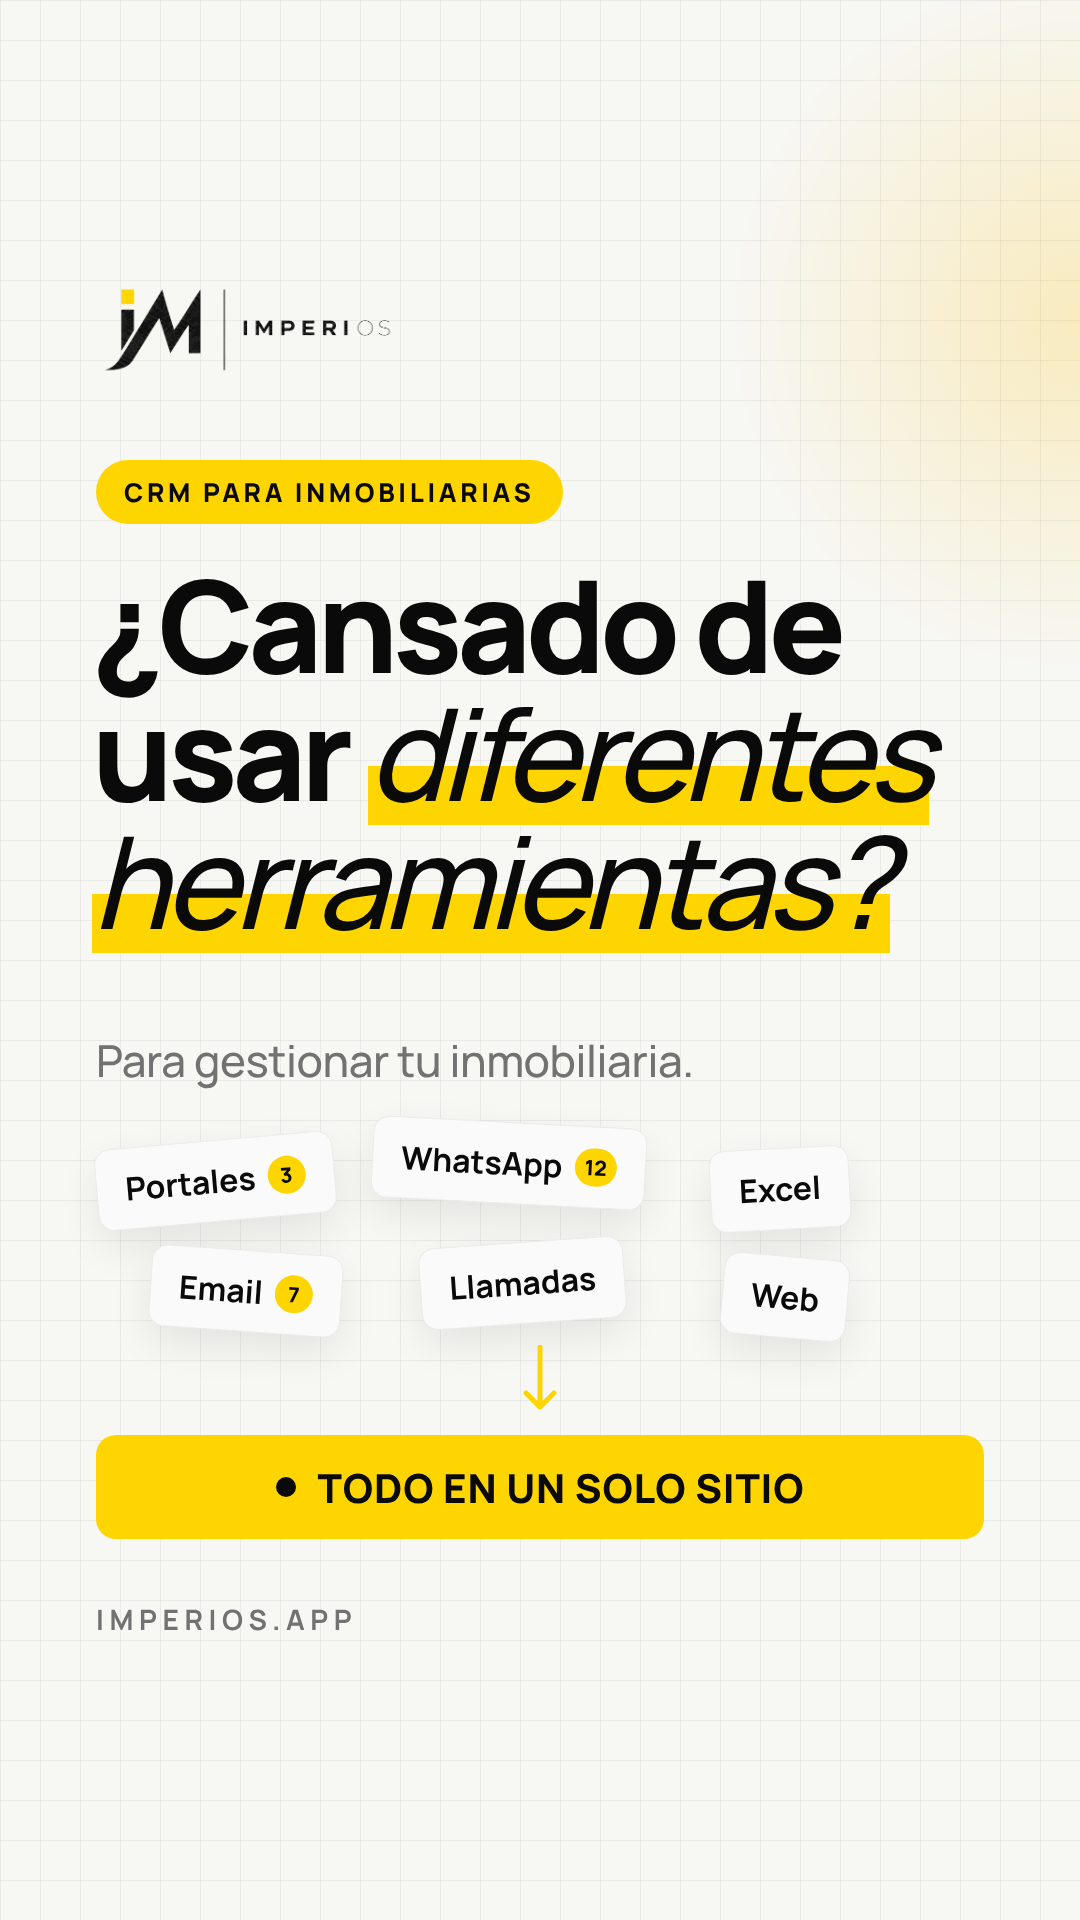
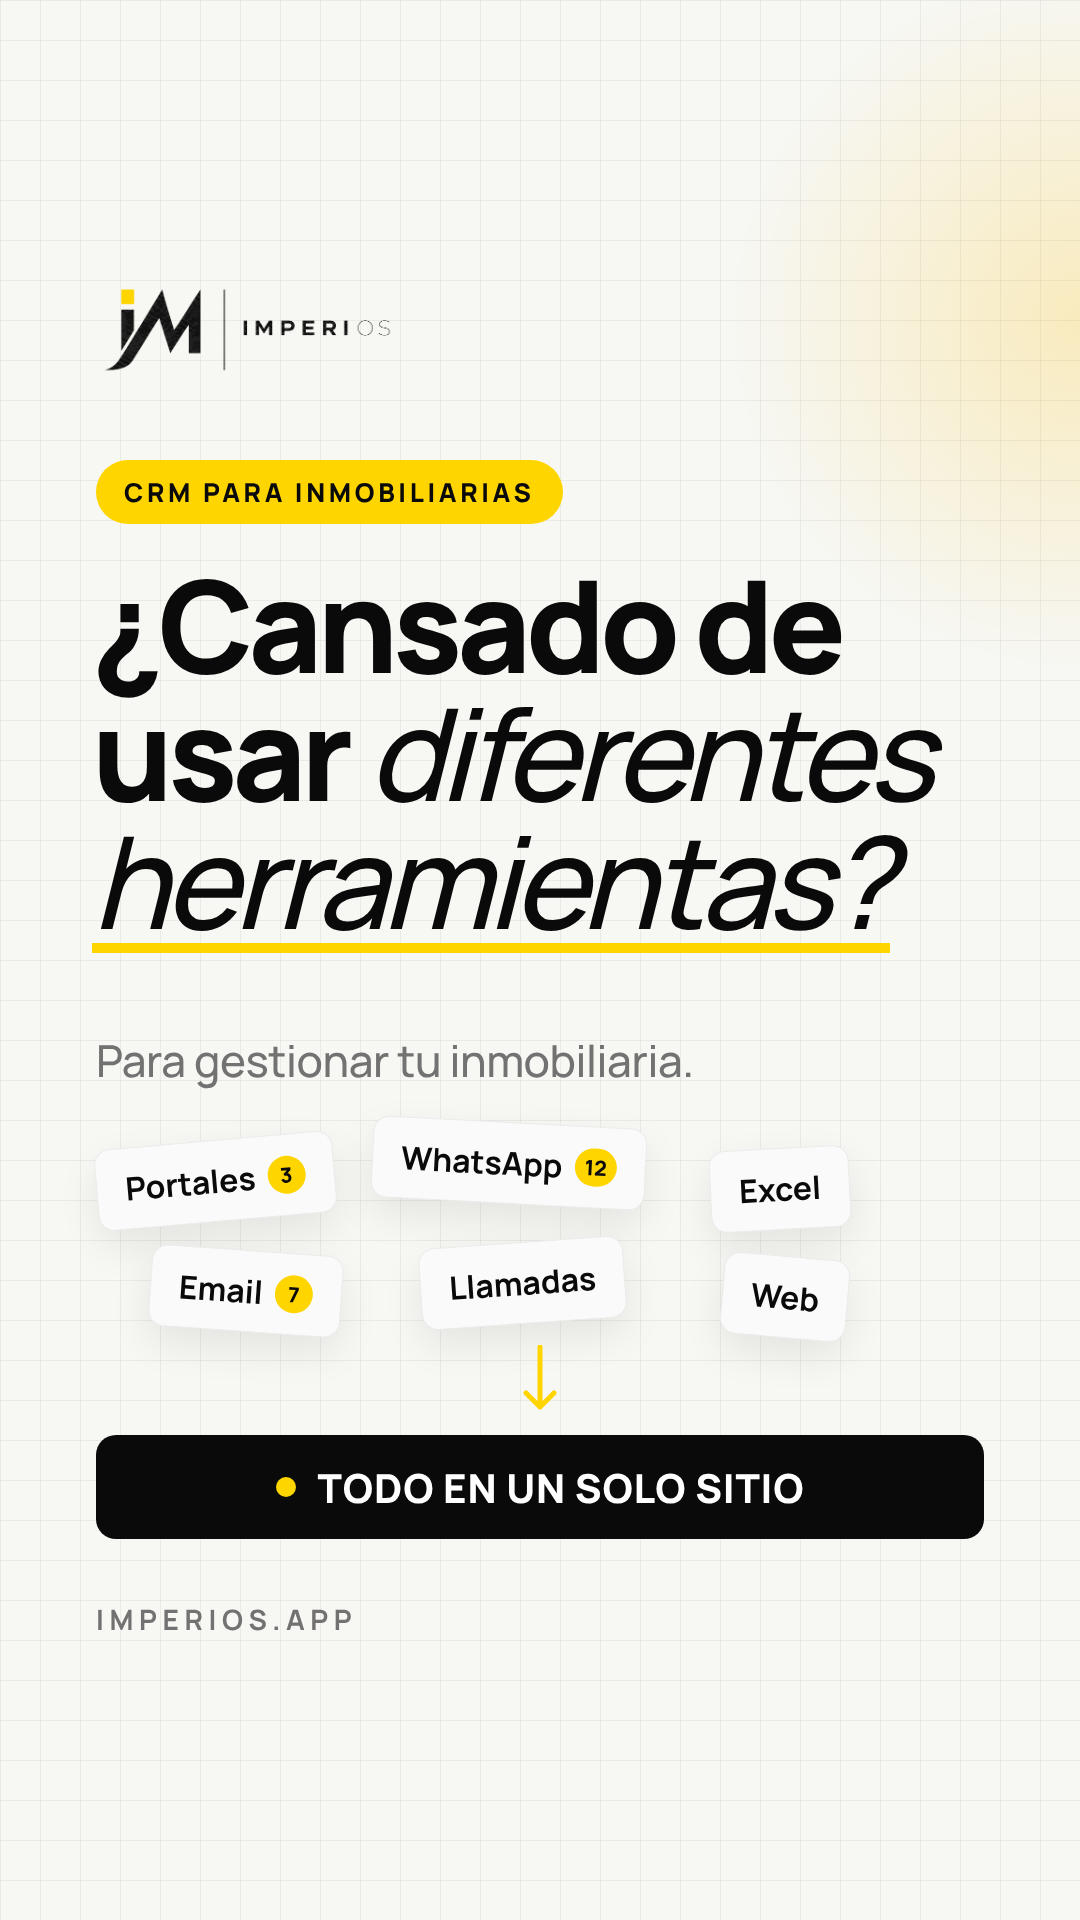
Portada clara: subrayado solo en «herramientas» y botón negro
Claude-Session: https://claude.ai/code/session_01GUwAx98LwDLChJJ4cX9B1a

Changed region(s): [[0.0917, 0.75, 0.9167, 0.8125], [0.3361, 0.375, 0.8556, 0.4375], [0.0611, 0.4688, 0.825, 0.5]]

diff --git a/ADV/ImperiOS Ad/preview/src/portada-reel.html b/ADV/ImperiOS Ad/preview/src/portada-reel.html
@@ -27,7 +27,10 @@ body.claro .logo { padding: 0; background: none; }
 h1 { position: absolute; left: 92px; top: 560px; right: 60px; font-weight: 800; font-size: 128px; line-height: 1.0; letter-spacing: -.045em; }
 h1 em { font-style: italic; font-weight: 500; }
 h1 .y { color: var(--y); }
-body.claro h1 .y { color: var(--ink-950); background: linear-gradient(transparent 58%, var(--y) 58%, var(--y) 92%, transparent 92%); }
+body.claro h1 .y { color: var(--ink-950); }
+body.claro h1 .u { background: linear-gradient(transparent 86%, var(--y) 86%, var(--y) 92%, transparent 92%); }
+body.claro .panel { background: var(--ink-950); color: #fff; }
+body.claro .panel i { background: var(--y); }
 .uline { left: 96px; top: 985px; width: 220px; height: 12px; border-radius: 6px; background: var(--y); }
 body.claro .uline { display: none; }
 .sub { left: 96px; top: 1030px; font-size: 44px; font-weight: 500; color: var(--sub); letter-spacing: -.01em; }
@@ -47,7 +50,7 @@ body.claro .chip { box-shadow: 0 16px 40px rgba(10,10,10,.08); }
 <div class="glow"></div>
 <div class="abs logo"><img src="../../assets_in/brand-kit/assets/logo-imperios-navbar.svg" alt="ImperiOS"></div>
 <div class="abs tag">CRM PARA INMOBILIARIAS</div>
-<h1>¿Cansado de usar <em class="y">diferentes herramientas?</em></h1>
+<h1>¿Cansado de usar <em class="y">diferentes <span class="u">herramientas?</span></em></h1>
 <div class="abs uline"></div>
 <div class="abs sub">Para gestionar tu inmobiliaria.</div>
 <!-- el caos de herramientas… -->
